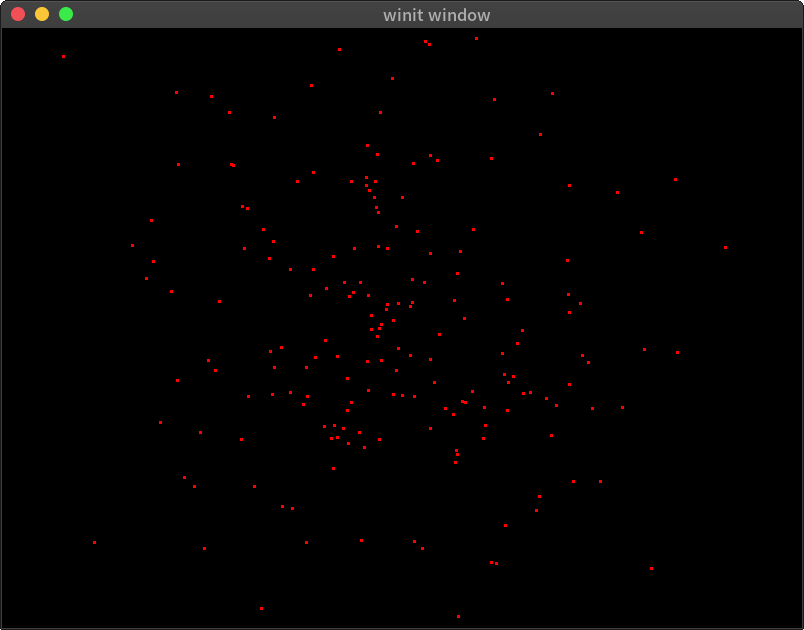
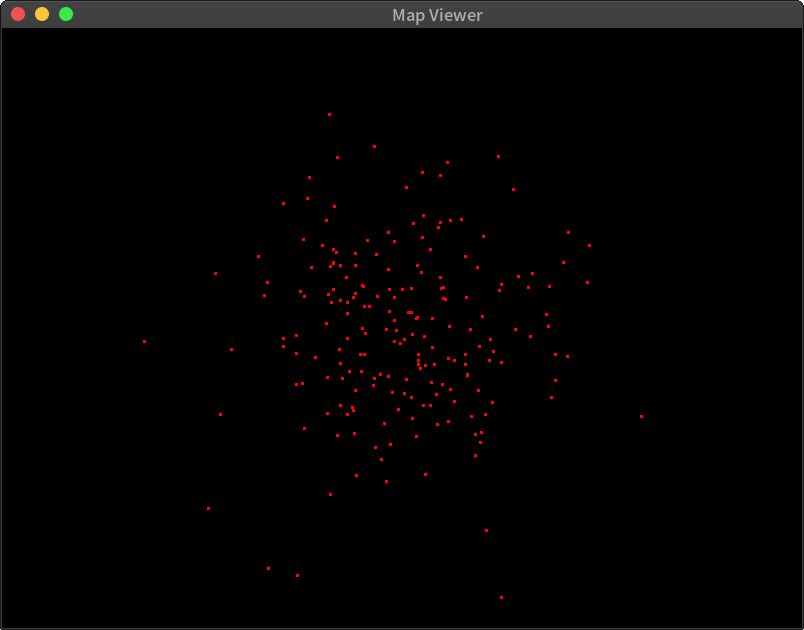
Add multi window support

diff --git a/src/viewer.rs b/src/viewer.rs
@@ -1,56 +1,69 @@
 use crate::{
     engine::EngineBuilder,
-    window::{Camera, CameraController, PointsBuilder, WindowBuilder},
+    pipes::{PipelineBuilder, VertexFormat},
+    window::{PointsBuilder, WindowBuilder, WindowBuilderDefault},
 };
 
-use nalgebra::{Point3, Vector3};
+use nalgebra::Point3;
 use slam_cv::prelude::*;
+
+pub fn alloc_thread<N>() -> Viewer<N>
+where
+    N: 'static + Number,
+    Point3<N>: VertexFormat<N>,
+{
+    Viewer { windows: vec![] }
+}
 
 /// TODO: one or **more** windows
 pub struct Viewer<N>
 where
     N: 'static + Number,
+    Point3<N>: VertexFormat<N>,
 {
-    pub title: String,
-    pub framerate: Option<u64>,
-
-    pub camera: Camera<N>,
-    pub camera_controller: CameraController<N>,
+    windows: Vec<(WindowBuilder<N>, Box<dyn PipelineBuilder>)>,
 }
 
-impl Default for Viewer<f32> {
-    fn default() -> Self {
-        Self {
-            title: "SLAM Map Viewer".to_string(),
-            framerate: Some(30),
-
-            camera: Camera {
-                eye: Point3::new(0., 2., 5.),
-                target: Point3::new(0., 0., 0.),
-                up: Vector3::y(),
-                fovy: std::f32::consts::FRAC_PI_4,
-                znear: 0.1,
-                zfar: 100.0,
-            },
-            camera_controller: CameraController::new(0.01),
-        }
-    }
-}
-
-impl Viewer<f32> {
-    pub fn run<F, W>(self, world: W) -> !
+impl<N> Viewer<N>
+where
+    N: 'static + Number,
+    Point3<N>: VertexFormat<N>,
+{
+    pub fn add_world<F, W>(self, world: W) -> Self
     where
-        F: 'static + Landmark<Number = f32>,
-        W: 'static + World<Landmark = F>,
+        F: 'static + Landmark<Number = N>,
+        W: 'static + World<Landmark = F> + WindowBuilderDefault<N>,
     {
-        let window = WindowBuilder {
-            camera: self.camera,
-            camera_controller: self.camera_controller,
-            pipeline_builder: Box::new(PointsBuilder::new(world)),
-        };
+        self.add_pipe::<W, _>(PointsBuilder::new(world))
+    }
 
+    pub fn add_window_world<F, W>(self, window: WindowBuilder<N>, world: W) -> Self
+    where
+        F: 'static + Landmark<Number = N>,
+        W: 'static + World<Landmark = F> + WindowBuilderDefault<N>,
+    {
+        self.add_window_pipe(window, PointsBuilder::new(world))
+    }
+
+    fn add_pipe<D, P>(self, pipe: P) -> Self
+    where
+        D: 'static + WindowBuilderDefault<N>,
+        P: 'static + PipelineBuilder,
+    {
+        self.add_window_pipe(D::default_window(), pipe)
+    }
+
+    fn add_window_pipe<P>(mut self, window: WindowBuilder<N>, pipe: P) -> Self
+    where
+        P: 'static + PipelineBuilder,
+    {
+        self.windows.push((window, Box::new(pipe)));
+        self
+    }
+
+    pub fn run(self) -> ! {
         let engine = EngineBuilder {
-            windows: vec![window],
+            windows: self.windows,
         };
 
         engine.run()

diff --git a/src/window/builder.rs b/src/window/builder.rs
@@ -11,10 +11,19 @@ where
     N: 'static + Number,
     Point3<N>: VertexFormat<N>,
 {
+    pub title: Option<String>,
+    pub framerate: Option<u64>,
+
     pub camera: Camera<N>,
     pub camera_controller: CameraController<N>,
+}
 
-    pub pipeline_builder: Box<dyn PipelineBuilder>,
+pub trait WindowBuilderDefault<N>
+where
+    N: 'static + Number,
+    Point3<N>: VertexFormat<N>,
+{
+    fn default_window() -> WindowBuilder<N>;
 }
 
 impl<N> WindowBuilder<N>
@@ -22,11 +31,19 @@ where
     N: 'static + Number,
     Point3<N>: VertexFormat<N>,
 {
-    pub async fn build<T>(self, event_loop: &EventLoop<T>) -> (window::WindowId, Window<N>) {
+    pub async fn build<T>(
+        self,
+        event_loop: &EventLoop<T>,
+        pipeline_builder: Box<dyn PipelineBuilder>,
+    ) -> (window::WindowId, Window<N>) {
         let window = window::WindowBuilder::new().build(&event_loop).unwrap();
         let id = window.id();
 
-        let engine_window = Window::new(window, self).await;
+        if let Some(title) = &self.title {
+            window.set_title(title);
+        }
+
+        let engine_window = Window::new(window, self, pipeline_builder).await;
         (id, engine_window)
     }
 }

diff --git a/src/window/points/renderer/world.rs b/src/window/points/renderer/world.rs
@@ -1,8 +1,10 @@
+use super::super::super::builder::{WindowBuilder, WindowBuilderDefault};
+use super::super::super::camera::{Camera, CameraController};
 use super::super::point::Point;
 use super::super::source::PointSource;
 use crate::pipes::VertexFormat;
 
-use nalgebra::Point3;
+use nalgebra::{Point3, Vector3};
 use slam_cv::{feature::Landmark, vo::World, Colors, Number};
 
 impl<N, F, W> PointSource<N> for W
@@ -17,5 +19,28 @@ where
             position: lm.point_world(),
             color: Colors::red(),
         })
+    }
+}
+
+impl<F, W> WindowBuilderDefault<f32> for W
+where
+    F: 'static + Landmark<Number = f32>,
+    W: 'static + World<Landmark = F>,
+{
+    fn default_window() -> WindowBuilder<f32> {
+        WindowBuilder {
+            title: Some("Map Viewer".to_string()),
+            framerate: Some(30),
+
+            camera: Camera {
+                eye: Point3::new(0., 2., 5.),
+                target: Point3::new(0., 0., 0.),
+                up: Vector3::y(),
+                fovy: std::f32::consts::FRAC_PI_4,
+                znear: 0.1,
+                zfar: 100.0,
+            },
+            camera_controller: CameraController::new(0.01),
+        }
     }
 }

diff --git a/src/window/base.rs b/src/window/base.rs
@@ -2,7 +2,7 @@ use super::builder::WindowBuilder;
 use super::camera::{Camera, CameraController};
 use super::event::WindowEventState;
 use super::uniform::Uniforms;
-use crate::pipes::{PipelineRenderer, VertexFormat};
+use crate::pipes::{PipelineBuilder, PipelineRenderer, VertexFormat};
 
 use nalgebra::Point3;
 use slam_cv::Number;
@@ -36,7 +36,11 @@ where
     N: 'static + Number,
     Point3<N>: VertexFormat<N>,
 {
-    pub async fn new(window: window::Window, builder: WindowBuilder<N>) -> Self {
+    pub async fn new(
+        window: window::Window,
+        builder: WindowBuilder<N>,
+        pipeline_builder: Box<dyn PipelineBuilder>,
+    ) -> Self {
         let size = window.inner_size();
 
         let surface = wgpu::Surface::create(&window);
@@ -102,9 +106,7 @@ where
         });
 
         let pipeline_rendener =
-            builder
-                .pipeline_builder
-                .build(&device, sc_desc.format, &uniform_bind_group_layout);
+            pipeline_builder.build(&device, sc_desc.format, &uniform_bind_group_layout);
 
         let camera = builder.camera;
         let camera_controller = builder.camera_controller;

diff --git a/src/window/points/renderer/base.rs b/src/window/points/renderer/base.rs
@@ -3,7 +3,7 @@ use core::marker::PhantomData;
 use super::super::builder::PointsBuilder;
 use super::super::point::Point;
 use super::super::source::PointSource;
-use crate::pipes::{PipelineBuilder, PipelineRenderer, VertexFormat};
+use crate::pipes::{PipelineAutoBuilder, PipelineBuilder, PipelineRenderer, VertexFormat};
 
 use nalgebra::Point3;
 use slam_cv::Number;
@@ -74,5 +74,16 @@ where
         render_pass.set_pipeline(&self.render_pipeline);
         render_pass.set_vertex_buffer(0, &self.vertex_buffer, 0, 0);
         render_pass.draw(0..num_points, 0..1);
+    }
+}
+
+impl<N, S> PipelineAutoBuilder<S> for PointsBuilder<N, S, PointsRendener<N, S>>
+where
+    N: 'static + Number,
+    Point3<N>: VertexFormat<N>,
+    S: 'static + PointSource<N>,
+{
+    fn auto_build(data: S) -> Box<Self> {
+        Box::new(Self::new(data))
     }
 }

diff --git a/src/engine/builder.rs b/src/engine/builder.rs
@@ -1,6 +1,6 @@
 use std::collections::HashMap;
 
-use crate::pipes::VertexFormat;
+use crate::pipes::{PipelineBuilder, VertexFormat};
 use crate::window::{WindowBuilder, WindowEventState};
 
 use futures::executor::block_on;
@@ -16,7 +16,7 @@ where
     N: 'static + Number,
     Point3<N>: VertexFormat<N>,
 {
-    pub windows: Vec<WindowBuilder<N>>,
+    pub windows: Vec<(WindowBuilder<N>, Box<dyn PipelineBuilder>)>,
 }
 
 impl<N> EngineBuilder<N>
@@ -30,7 +30,7 @@ where
         let mut windows = self
             .windows
             .into_iter()
-            .map(|builder| block_on(builder.build(&event_loop)))
+            .map(|(builder, pipe)| block_on(builder.build(&event_loop, pipe)))
             .collect::<HashMap<_, _>>();
 
         event_loop.run(move |event, _, control_flow| {

diff --git a/examples/simple.rs b/examples/simple.rs
@@ -1,9 +1,11 @@
 use nalgebra::{Point2, Point3};
 
 use rand_distr::{Distribution, StandardNormal};
-use slam_viewer::Viewer;
 
+#[derive(Clone)]
 struct MyWorld(Vec<MyFeature>);
+
+#[derive(Clone)]
 struct MyFeature(Point3<f32>);
 
 impl slam_cv::vo::World for MyWorld {
@@ -71,6 +73,11 @@ fn main() {
             .collect(),
     );
 
-    let viewer = Viewer::default();
-    viewer.run(world);
+    #[cfg(target_arch = "wasm32")]
+    {
+        std::panic::set_hook(Box::new(console_error_panic_hook::hook));
+        console_log::init().expect("could not initialize logger");
+    }
+
+    slam_viewer::alloc_thread().add_world(world).run();
 }

diff --git a/src/window/mod.rs b/src/window/mod.rs
@@ -8,7 +8,7 @@ mod uniform;
 mod points;
 
 pub use self::base::Window;
-pub use self::builder::WindowBuilder;
+pub use self::builder::{WindowBuilder, WindowBuilderDefault};
 pub use self::camera::{Camera, CameraController};
 pub use self::event::WindowEventState;
 pub use self::points::*;

diff --git a/src/pipes/builder.rs b/src/pipes/builder.rs
@@ -8,3 +8,11 @@ pub trait PipelineBuilder {
         uniform_bind_group_layout: &wgpu::BindGroupLayout,
     ) -> Box<dyn PipelineRenderer>;
 }
+
+pub trait PipelineAutoBuilder<D>
+where
+    Self: PipelineBuilder,
+    D: 'static,
+{
+    fn auto_build(data: D) -> Box<Self>;
+}

diff --git a/src/pipes/mod.rs b/src/pipes/mod.rs
@@ -3,7 +3,7 @@ mod format;
 mod module;
 mod renderer;
 
-pub use self::builder::PipelineBuilder;
+pub use self::builder::{PipelineAutoBuilder, PipelineBuilder};
 pub use self::format::*;
 pub use self::module::StaticShaderModule;
 pub use self::renderer::PipelineRenderer;

diff --git a/src/lib.rs b/src/lib.rs
@@ -3,5 +3,5 @@ mod pipes;
 mod viewer;
 mod window;
 
-pub use viewer::Viewer;
+pub use viewer::alloc_thread;
 pub use window::{Camera, CameraController};

diff --git a/README.md b/README.md
@@ -36,7 +36,6 @@ use slam_viewer::Viewer;
 fn main() {
     let world = MyWorld(..);
 
-    let viewer = Viewer::default();
-    viewer.run(world);
+    slam_viewer::alloc_thread().add_world(world).run();
 }
 ```
